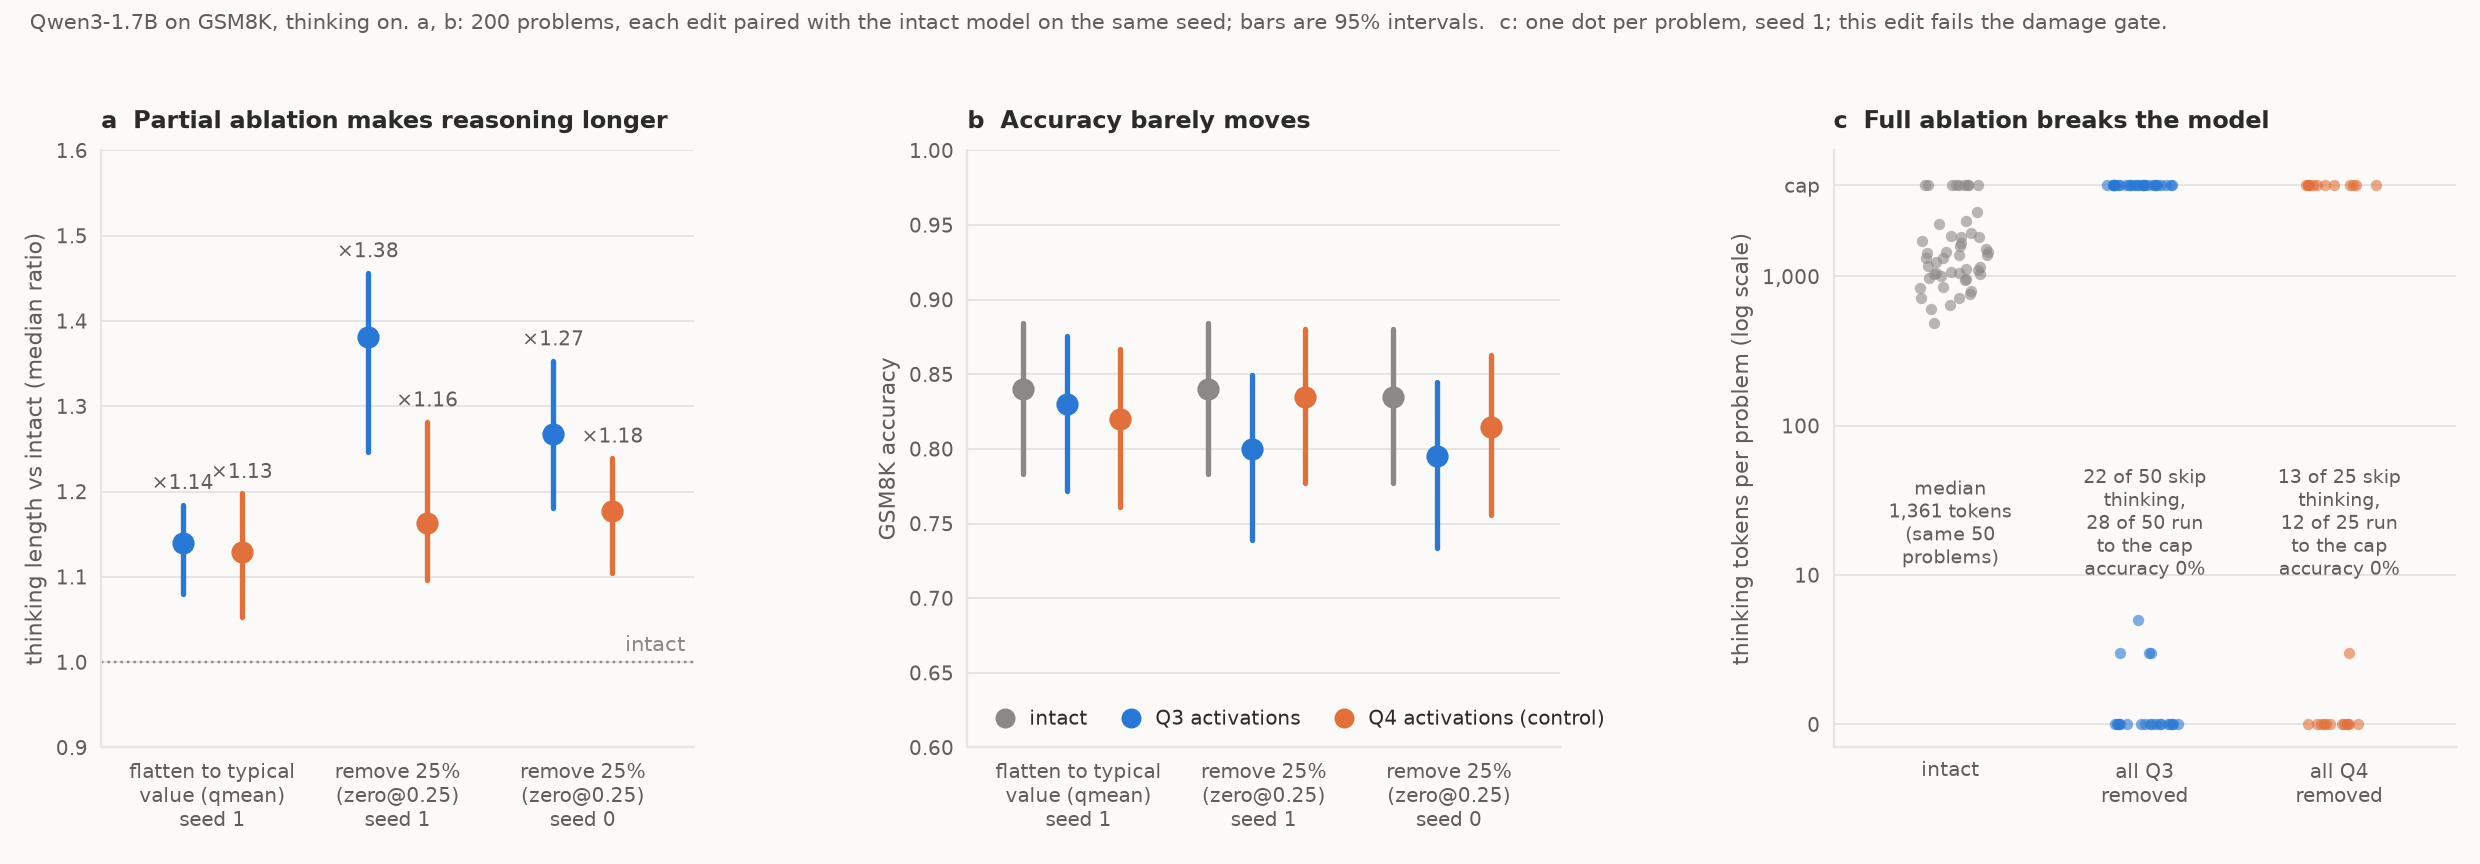
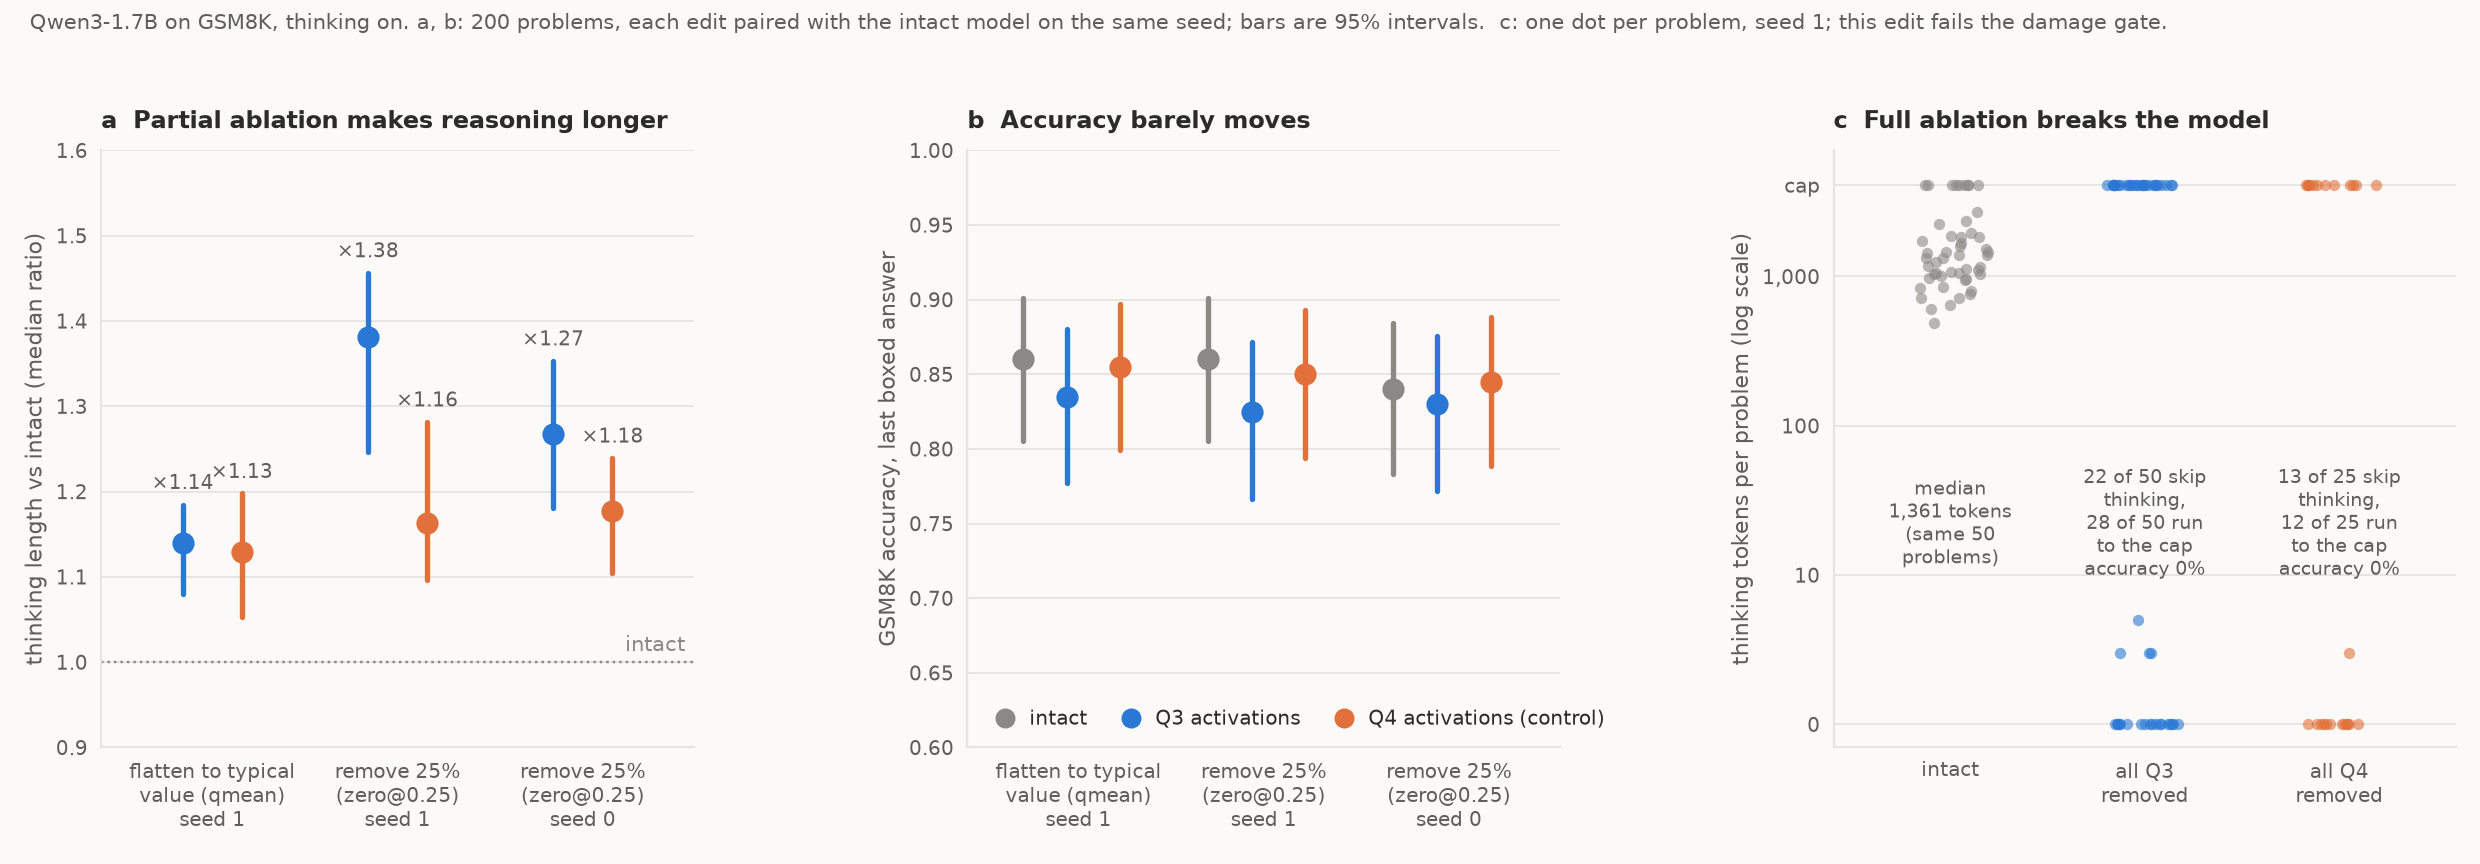
Figures 7 and 8: score accuracy on the last boxed answer anywhere in the output

diff --git a/src/figures/fig_ablation.py b/src/figures/fig_ablation.py
@@ -20,6 +20,7 @@ import matplotlib.pyplot as plt
 
 sys.path.insert(0, str(Path(__file__).resolve().parent))
 import style  # noqa: E402
+from scoring import last_boxed_correct  # noqa: E402
 
 style.apply()
 folder = Path(sys.argv[1] if len(sys.argv) > 1 else "results/q3__Qwen__Qwen3-1.7B")
@@ -56,7 +57,7 @@ fig, (a1, a2, a3) = plt.subplots(1, 3, figsize=(15.5, 5.4), gridspec_kw={"width_
 for gi, (xlabel, fill, seed) in enumerate(EDITS):
     base = load(f"none__seed{seed}")
     ids = sorted(base)
-    k = sum(base[i]["correct"] for i in ids); lo, hi = wilson(k, len(ids))
+    k = sum(last_boxed_correct(base[i]) for i in ids); lo, hi = wilson(k, len(ids))
     errbar(a2, gi - 0.3, k / len(ids), lo, hi, style.INTACT_COL)
     for quad, colour, _, dx in QUADS:
         run = load(f"{quad}_{fill}__seed{seed}")
@@ -68,12 +69,12 @@ for gi, (xlabel, fill, seed) in enumerate(EDITS):
         errbar(a1, gi + dx, med, rlo, rhi, colour)
         a1.annotate(f"×{med:.2f}", (gi + dx, rhi), xytext=(0, 7), textcoords="offset points",
                     ha="center", fontsize=9, color=style.INK2)
-        kk = sum(run[i]["correct"] for i in ids); alo, ahi = wilson(kk, len(ids))
+        kk = sum(last_boxed_correct(run[i]) for i in ids); alo, ahi = wilson(kk, len(ids))
         errbar(a2, gi + dx * 0.9 + 0.08, kk / len(ids), alo, ahi, colour)
-        lost = sum(base[i]["correct"] and not run[i]["correct"] for i in ids)
-        gained = sum(run[i]["correct"] and not base[i]["correct"] for i in ids)
+        lost = sum(last_boxed_correct(base[i]) and not last_boxed_correct(run[i]) for i in ids)
+        gained = sum(last_boxed_correct(run[i]) and not last_boxed_correct(base[i]) for i in ids)
         summary[f"{quad}_{fill}__seed{seed}"] = {
-            "n": len(ids), "length_ratio": med, "ci": [rlo, rhi], "accuracy": kk / len(ids),
+            "n": len(ids), "length_ratio": med, "ci": [rlo, rhi], "accuracy": kk / len(ids), "accuracy_answer_section_only": sum(run[i]["correct"] for i in ids) / len(ids),
             "intact_accuracy": k / len(ids), "lost": lost, "gained": gained,
             "median_thinking_tokens": float(np.median([run[i]["thinking_tokens"] for i in ids])),
             "cap_hits": float(np.mean([run[i]["total_tokens"] >= CAP for i in ids]))}
@@ -87,7 +88,7 @@ a1.annotate("intact", (len(EDITS) - 0.4, 1), xytext=(-4, 5), textcoords="offset 
 a1.set_ylim(0.9, 1.6)
 a1.set_ylabel("thinking length vs intact (median ratio)")
 a1.set_title("a  Partial ablation makes reasoning longer")
-a2.set_ylim(0.6, 1.0); a2.set_ylabel("GSM8K accuracy")
+a2.set_ylim(0.6, 1.0); a2.set_ylabel("GSM8K accuracy, last boxed answer")
 a2.set_title("b  Accuracy barely moves")
 handles = [plt.Line2D([], [], marker="o", ls="", color=c, ms=8, label=l)
            for c, l in ((style.INTACT_COL, "intact"), (style.Q3_COL, "Q3 activations"), (style.Q4_COL, "Q4 activations (control)"))]
@@ -108,7 +109,7 @@ for xi, (lab, run, colour) in enumerate(rows):
     a3.scatter(xi + rng.uniform(-0.2, 0.2, len(t)), t + 1, s=26, color=colour, alpha=0.6, linewidths=0, zorder=3)
     near0, capped = int((t <= 4).sum()), int((t >= CAP - 16).sum())  # capped = still thinking at the cap
     if lab != "intact":
-        acc = np.mean([run[i]["correct"] for i in ids])
+        acc = np.mean([last_boxed_correct(run[i]) for i in ids])
         a3.annotate(f"{near0} of {len(t)} skip\nthinking,\n{capped} of {len(t)} run\nto the cap\naccuracy {acc:.0%}",
                     (xi, 22), ha="center", va="center", fontsize=8.6, color=style.INK2)
         summary[name] = {"n": len(t), "near_zero": near0, "capped": capped, "accuracy": float(acc)}

diff --git a/src/figures/fig_gain_dose.py b/src/figures/fig_gain_dose.py
@@ -2,7 +2,8 @@
 
 Every Q3 (or Q4) firing is multiplied by a gain: shrink@0.5 = x0.5, none = x1,
 grow@0.25 = x1.25, and so on. Left: median per-problem thinking length relative
-to the intact model (bootstrap 95% band). Right: GSM8K accuracy (Wilson 95% band).
+to the intact model (bootstrap 95% band). Right: GSM8K accuracy scored on the last
+boxed answer anywhere in the output (Wilson 95% band); see scoring.py.
 
 Usage: python src/figures/fig_gain_dose.py [results/q3__Qwen__Qwen3-1.7B] [seed]
 Writes figures/fig7_gain_dose_response.png and gain_dose_summary__seed<k>.json.
@@ -16,6 +17,7 @@ import matplotlib.pyplot as plt
 
 sys.path.insert(0, str(Path(__file__).resolve().parent))
 import style  # noqa: E402
+from scoring import last_boxed_correct  # noqa: E402
 
 style.apply()
 folder = Path(sys.argv[1] if len(sys.argv) > 1 else "results/q3__Qwen__Qwen3-1.7B")
@@ -41,7 +43,7 @@ summary = {}
 fig, (a1, a2) = plt.subplots(1, 2, figsize=(12.5, 4.9))
 for quad, colour, dy in (("q3", style.Q3_COL, 0), ("q4", style.Q4_COL, 0)):
     xs, ratio, rlo, rhi, acc, alo, ahi = [1.0], [1.0], [1.0], [1.0], [], [], []
-    k = sum(base[i]["correct"] for i in ids); lo, hi = wilson(k, len(ids))
+    k = sum(last_boxed_correct(base[i]) for i in ids); lo, hi = wilson(k, len(ids))
     acc.append(k / len(ids)); alo.append(lo); ahi.append(hi)
     for g, fill in sorted(GAINS.items()):
         run = load(f"{quad}_{fill}")
@@ -49,11 +51,11 @@ for quad, colour, dy in (("q3", style.Q3_COL, 0), ("q4", style.Q4_COL, 0)):
             continue
         r = np.array([run[i]["thinking_tokens"] / max(1, base[i]["thinking_tokens"]) for i in ids])
         boots = [np.median(rng.choice(r, len(r))) for _ in range(2000)]
-        k = sum(run[i]["correct"] for i in ids); lo, hi = wilson(k, len(ids))
+        k = sum(last_boxed_correct(run[i]) for i in ids); lo, hi = wilson(k, len(ids))
         xs.append(g); ratio.append(float(np.median(r))); rlo.append(float(np.percentile(boots, 2.5)))
         rhi.append(float(np.percentile(boots, 97.5))); acc.append(k / len(ids)); alo.append(lo); ahi.append(hi)
         summary[f"{quad}_{fill}"] = {"gain": g, "length_ratio": ratio[-1], "ci": [rlo[-1], rhi[-1]],
-                                     "accuracy": acc[-1], "cap_hits": float(np.mean([run[i]["total_tokens"] >= 4096 for i in ids]))}
+                                     "accuracy": acc[-1], "accuracy_answer_section_only": sum(run[i]["correct"] for i in ids) / len(ids), "cap_hits": float(np.mean([run[i]["total_tokens"] >= 4096 for i in ids]))}
     o = np.argsort(xs); xs, ratio, rlo, rhi, acc, alo, ahi = (np.array(v)[o] for v in (xs, ratio, rlo, rhi, acc, alo, ahi))
     name = f"{quad.upper()} activations"
     style.line_with_band(a1, xs, ratio, rlo, rhi, colour, name)
@@ -64,7 +66,7 @@ a1.set_yticklabels(["0.4", "0.5", "0.7", "1", "1.5", "2"]); a1.minorticks_off()
 style.reference_line(a1, 1, "intact", 1.83)
 a1.set_ylabel("thinking length vs intact (median ratio)")
 a1.set_title("Bigger Q3 activations, shorter reasoning")
-a2.set_ylabel("GSM8K accuracy"); a2.set_ylim(0.4, 1.0)
+a2.set_ylabel("GSM8K accuracy, last boxed answer"); a2.set_ylim(0.4, 1.0)
 a2.set_title("Accuracy holds from x1 to x1.5")
 for ax in (a1, a2):
     ax.set_xlabel("activation size multiplier (1 = intact)")

diff --git a/src/figures/scoring.py b/src/figures/scoring.py
@@ -1,0 +1,25 @@
+"""Accuracy scored on the last boxed answer anywhere in the output.
+
+The standard score (`correct` in the result files) only reads the final answer
+section, so a run that reaches the token cap while still thinking is wrong even
+if it had already boxed the right answer. This score accepts the last
+\\boxed{...} found in the thinking block or the answer; with no box anywhere it
+falls back to the standard score.
+"""
+import re
+
+_BOX = re.compile(r"\\boxed\{([^{}]*)\}")
+_NUM = re.compile(r"-?\d[\d,]*\.?\d*")
+
+
+def last_boxed_correct(rec: dict) -> bool:
+    boxes = _BOX.findall((rec.get("thinking") or "") + " " + (rec.get("answer_text") or ""))
+    if not boxes:
+        return bool(rec["correct"])
+    nums = _NUM.findall(boxes[-1])
+    if not nums:
+        return False
+    try:
+        return abs(float(nums[-1].replace(",", "").rstrip(".")) - float(rec["gold"])) < 1e-6
+    except ValueError:
+        return False
